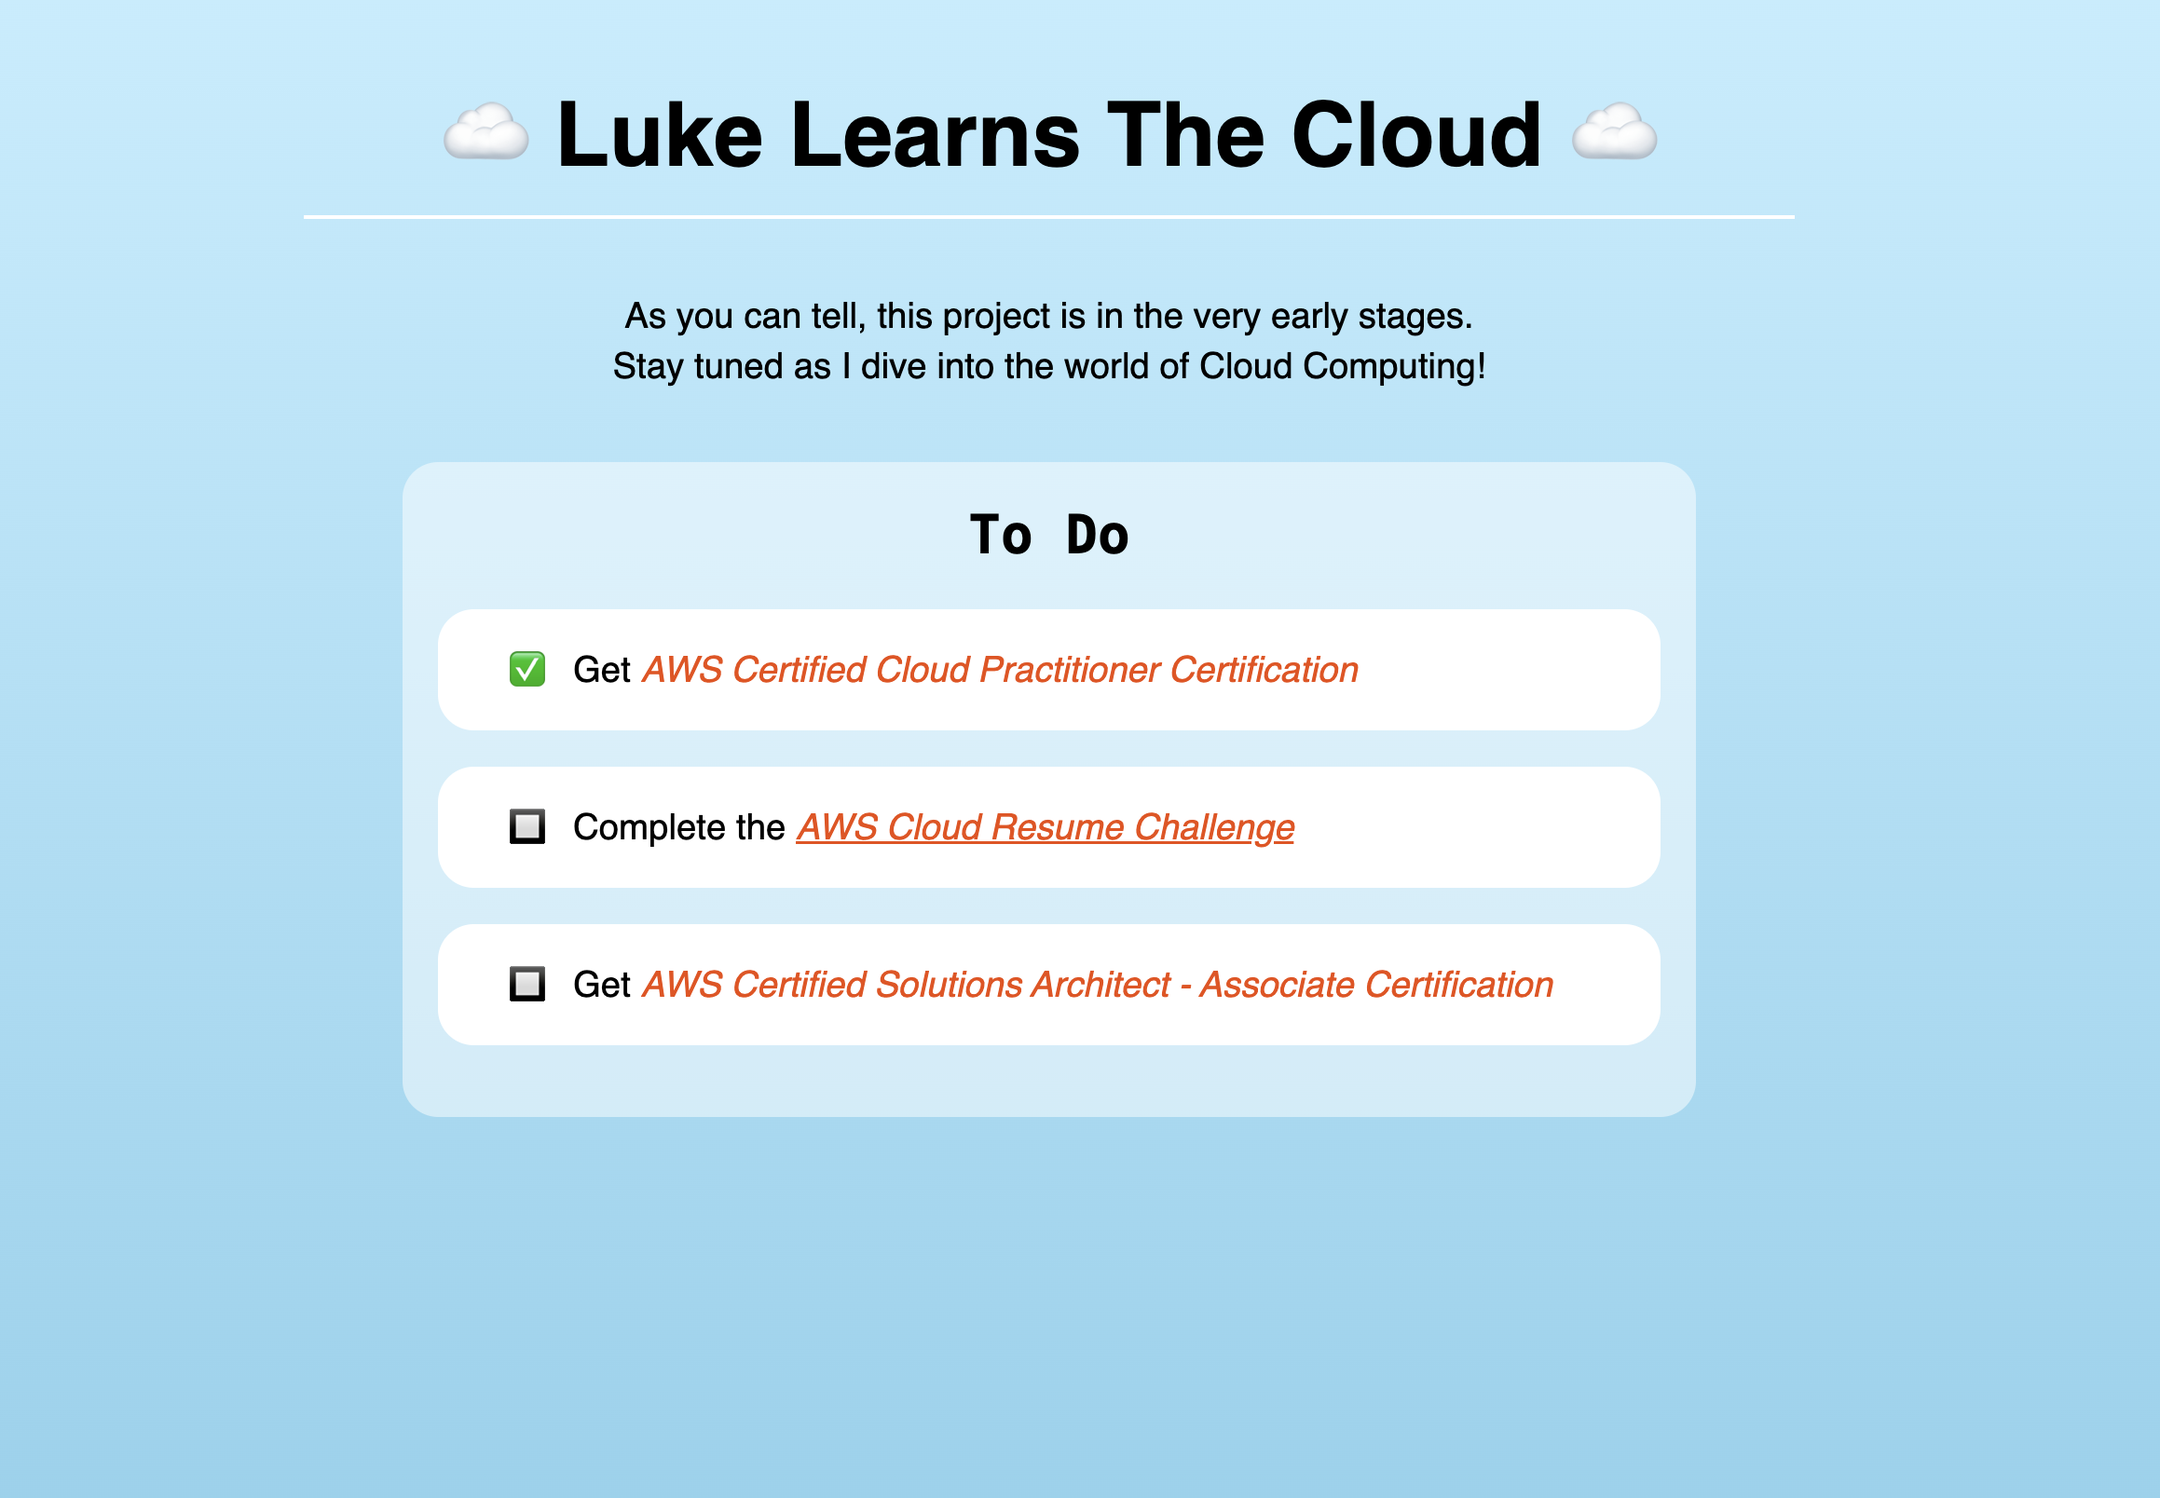
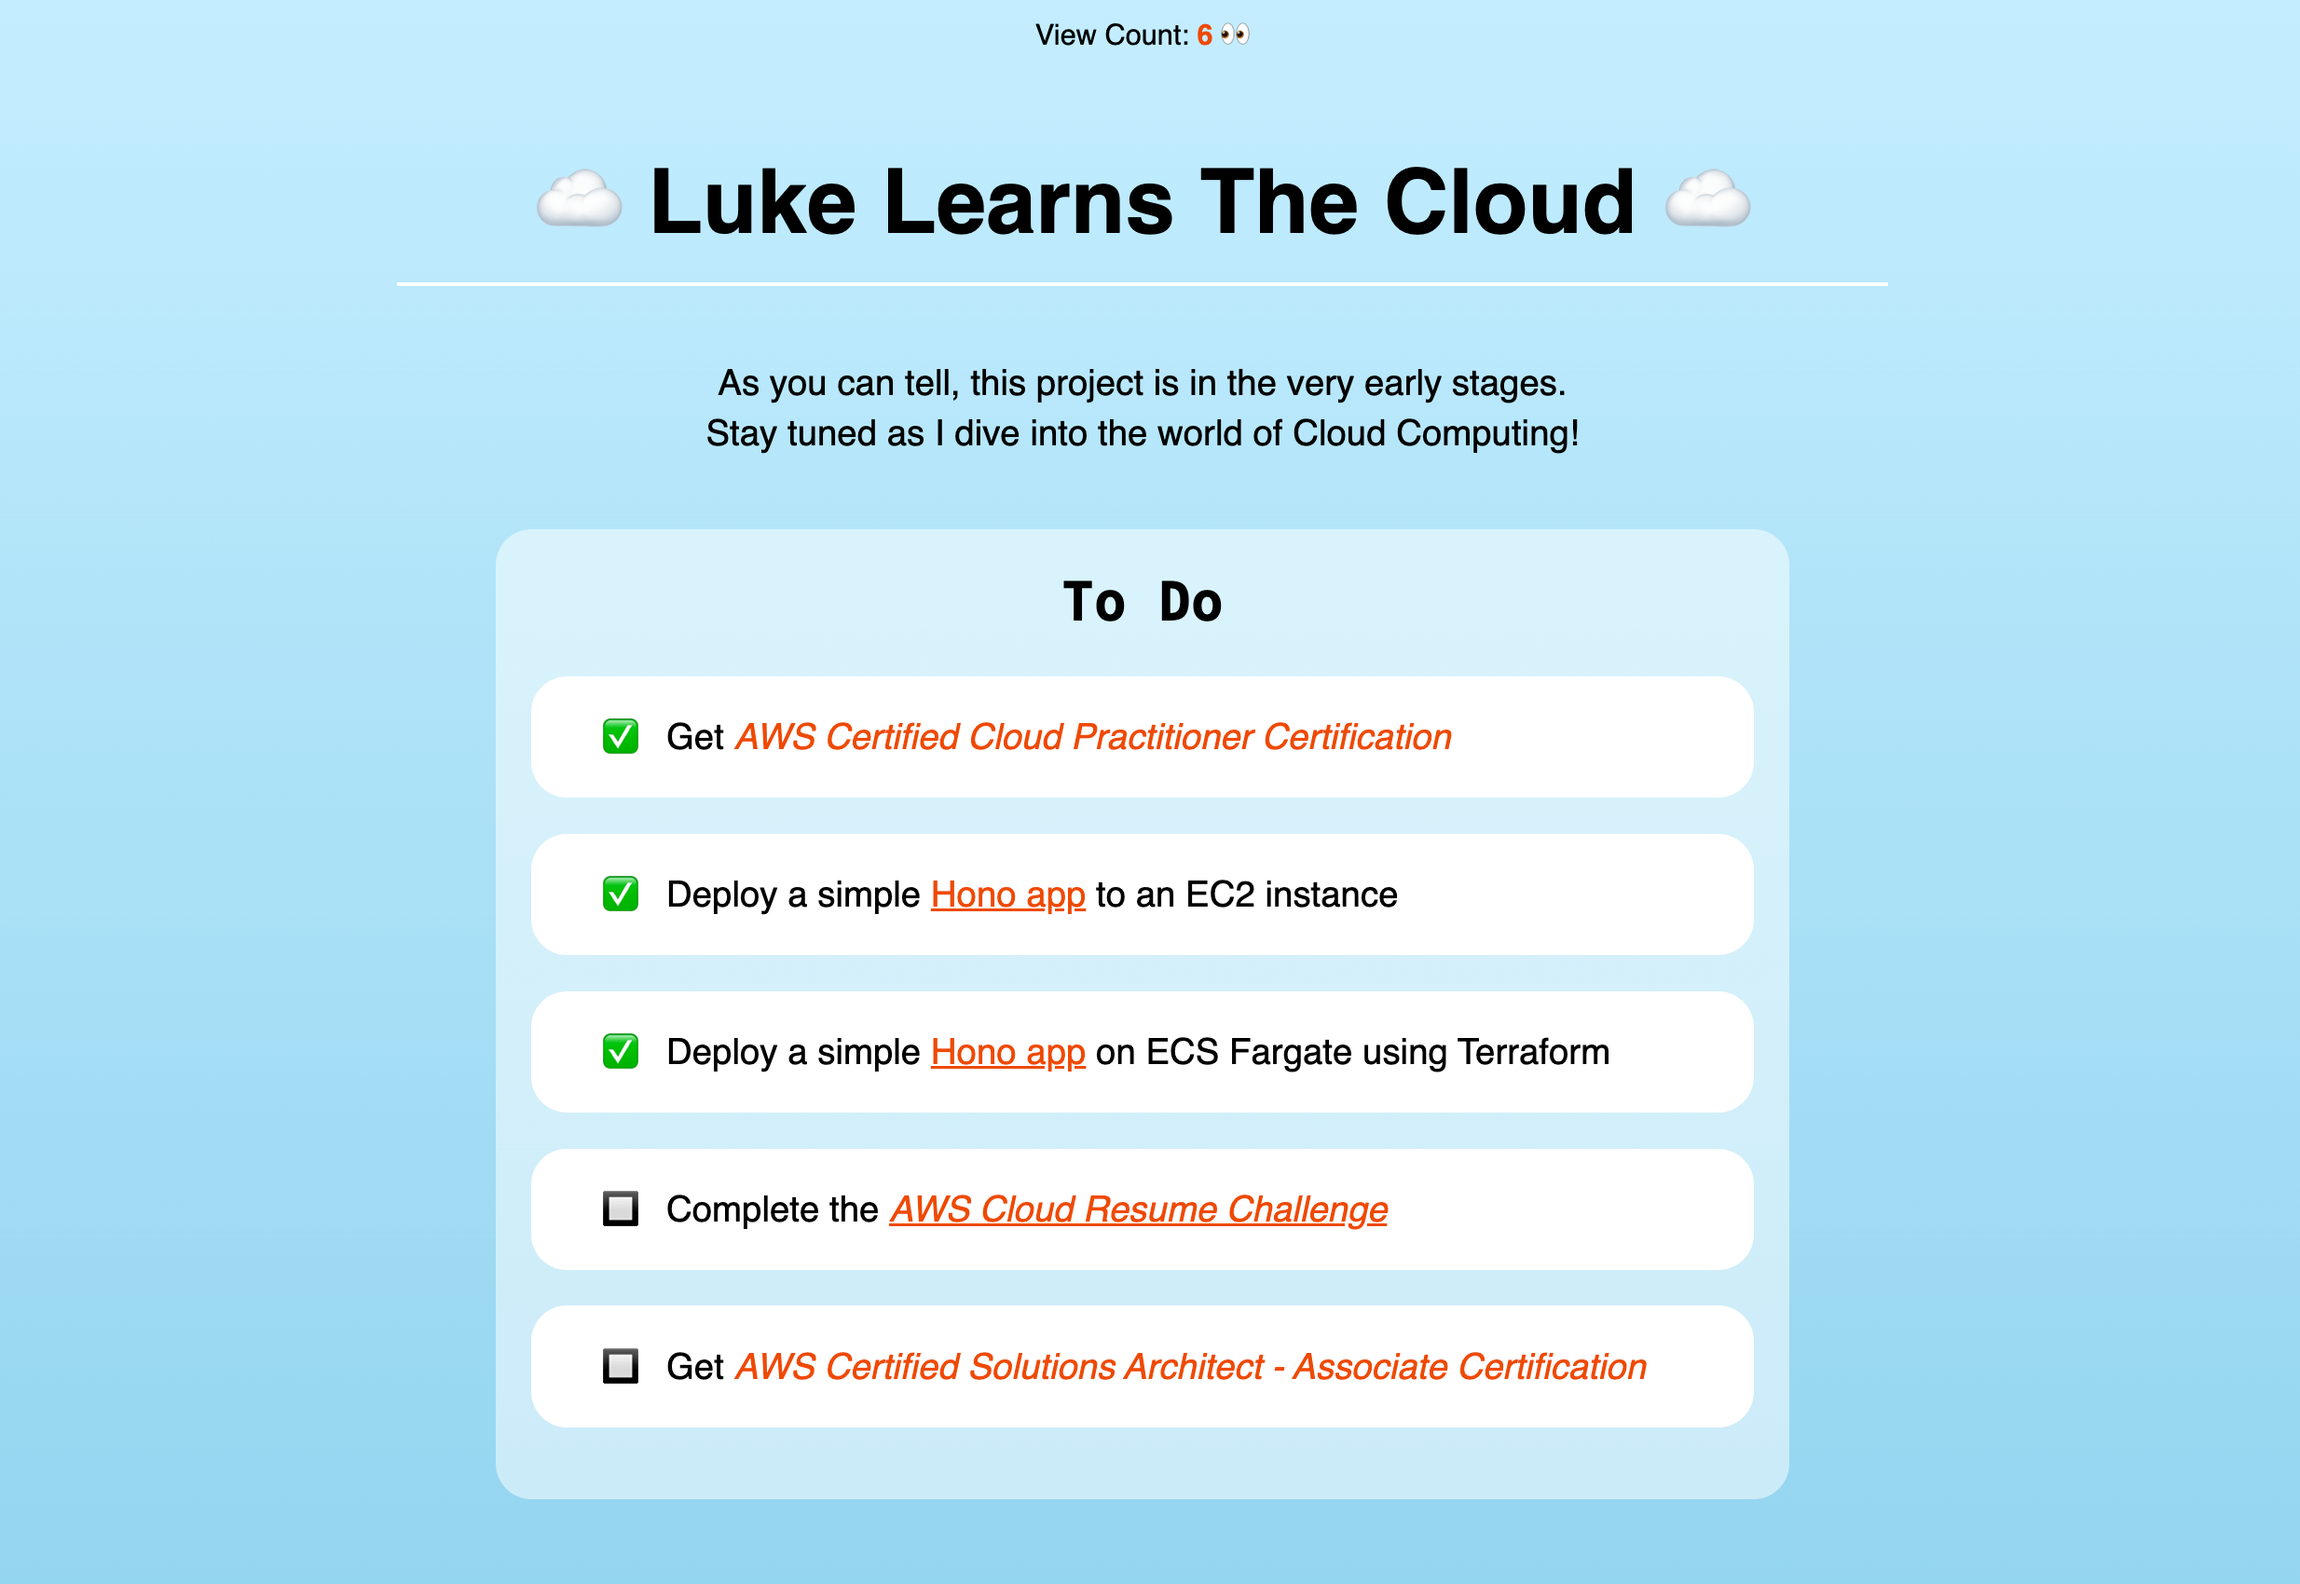
Update "Luke Learns The Cloud" project: replace image, add Terraform to tags, and enhance infrastructure description

Changed region(s): [[0.1864, 0.1866, 0.8076, 0.9639], [0.1864, 0.0622, 0.7765, 0.1555], [0.4349, 0.0, 0.5591, 0.0311]]

diff --git a/src/content/projects/luke-learns-the-cloud/index.md b/src/content/projects/luke-learns-the-cloud/index.md
@@ -2,10 +2,12 @@
 title: 'Luke Learns The Cloud ☁'
 publishDate: 2024-08-08
 images: [{ src: './image-1.png', alt: 'Luke Learns The Cloud home page.' }]
-tags: ['AWS S3', 'CloudFront', 'Route 53', 'Vite']
+tags: ['AWS S3', 'CloudFront', 'Terraform', 'Route 53', 'Vite']
 liveUrl: 'https://lukelearnsthe.cloud'
 ---
 
 I recently got my **_AWS Certified Cloud Practitioner Certification_**. That said, I still have so much more to learn & explore so I figured I'd set up a site to showcase the AWS projects I build.
 
 This site, although very basic (for now...), is leveraging a number of AWS services. The static site files are stored in an **S3 bucket** and I've enabled **CloudFront** for fast, global content delivery. Additionally, I'm using **Route 53** for domain management, AWS **Certification Manager** for SSL certification to ensure secure connections, and **Origin Access Control (OAC)** to restrict S3 bucket access exclusively to CloudFront, adding an extra layer of security.
+
+While I initially setup the AWS infrastructure manually via the AWS console, I've since moved to using **Terraform** to manage the infrastructure as code.
